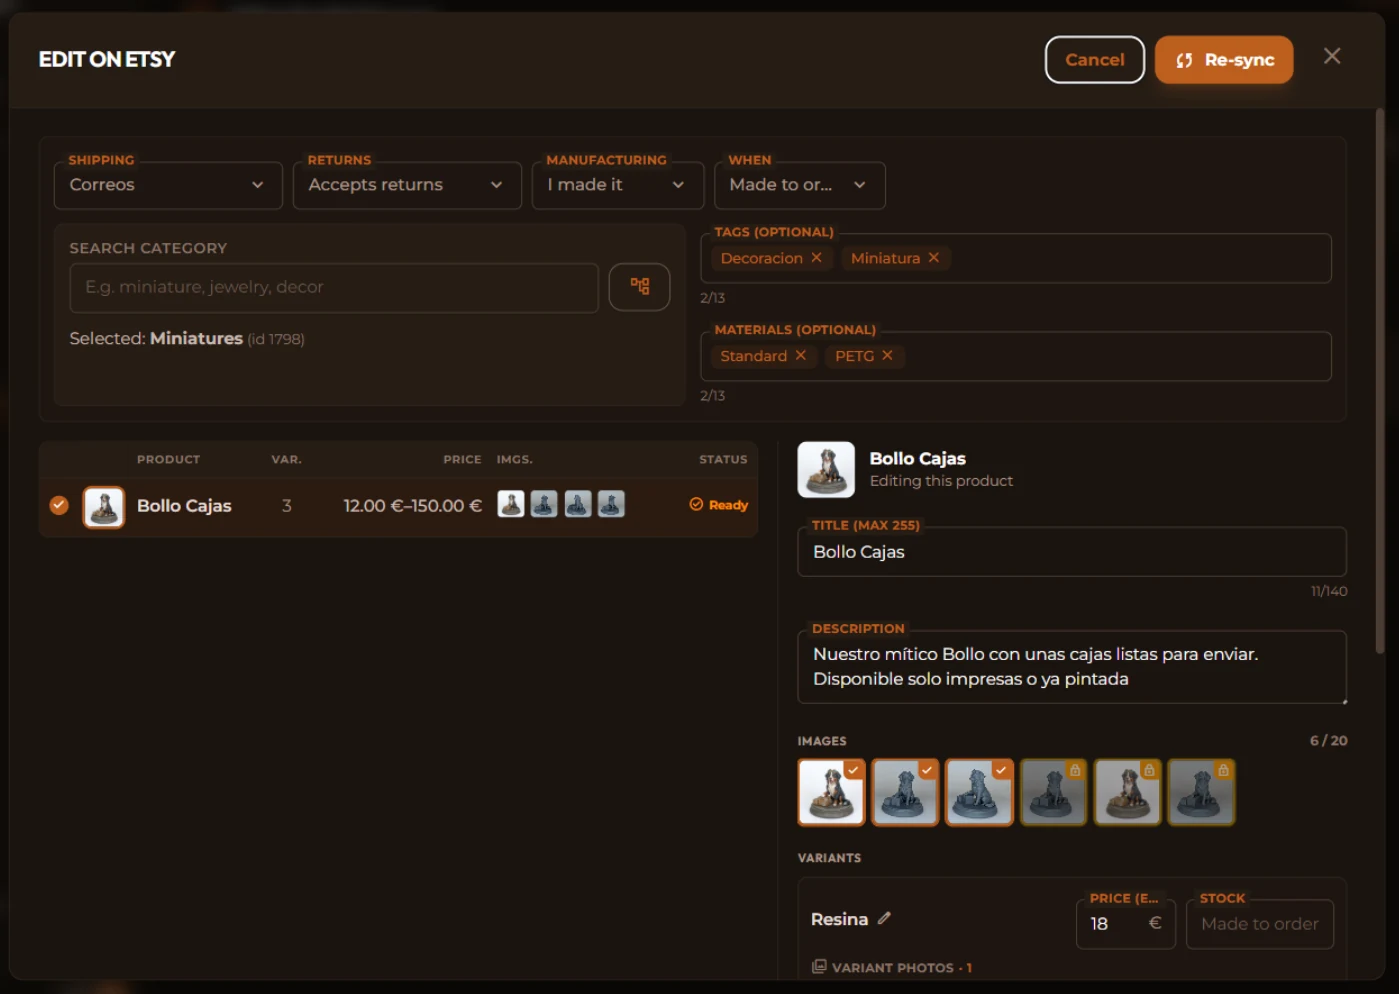
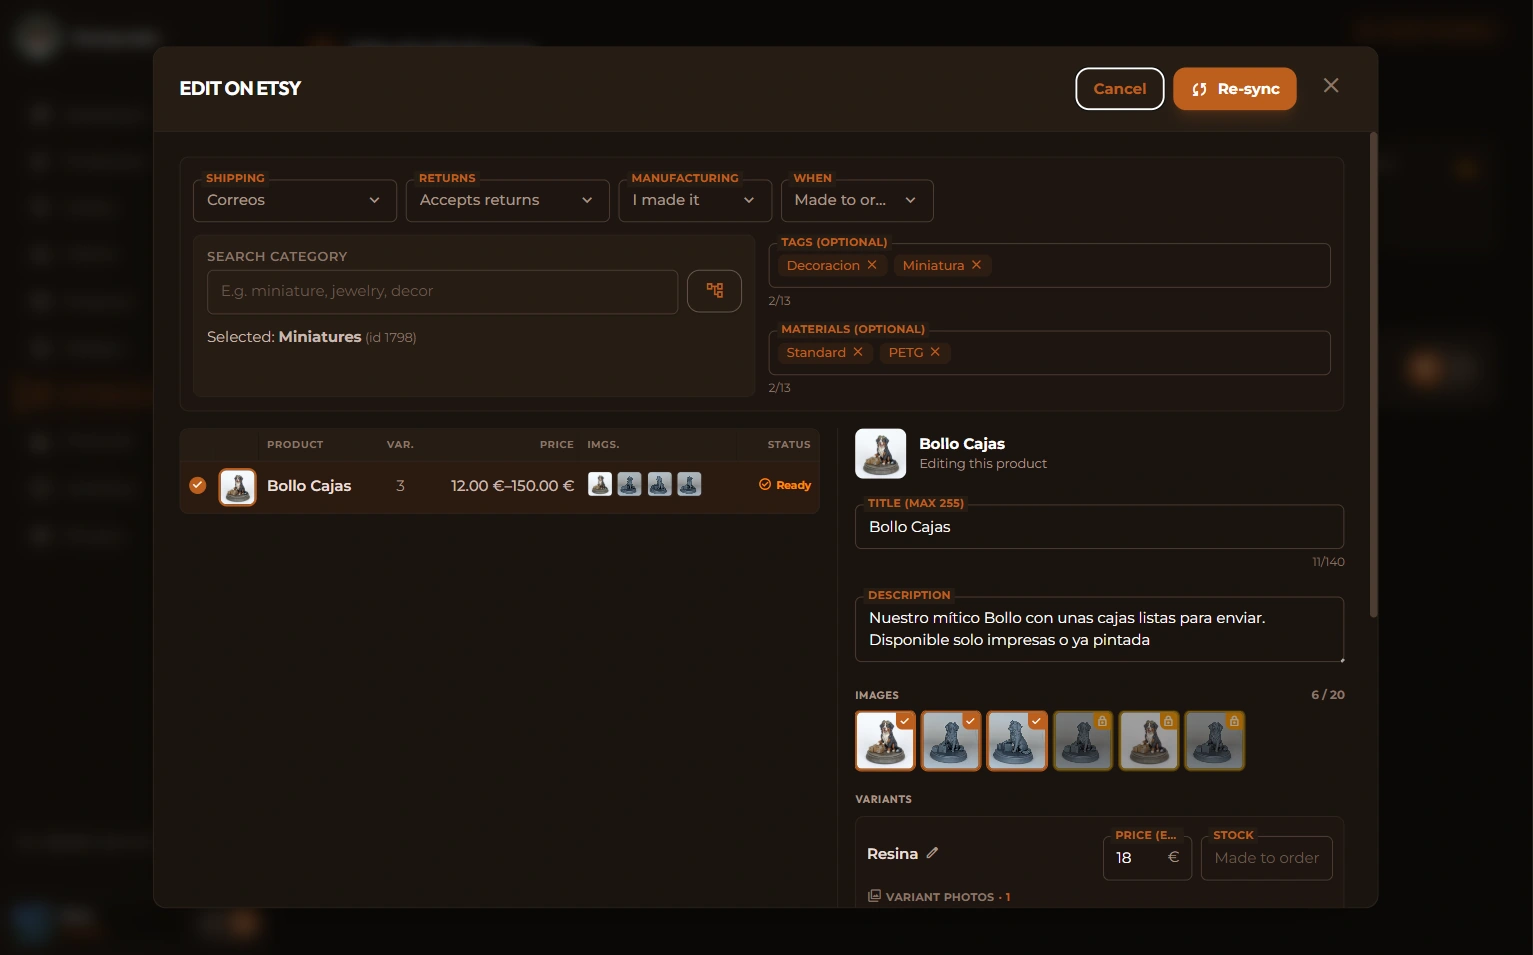
Etsy: imágenes con más calidad y un cierre nuevo
Las dos imágenes se recodifican a calidad 94 en su resolución nativa (antes
iban a 86/88), y la captura del modal pasa al encuadre ancho, con la ventana
completa de la aplicación detrás en vez de solo el diálogo.

Se añade una tercera al cierre, antes de la lista de documentación: Bollo con
la chapa de Etsy en el collar. Texto alternativo traducido en los seis idiomas
y sin adjetivo con género, que la mascota no tiene por qué llevar uno.

diff --git a/posts/2026-09-27-vender-en-etsy/de.md b/posts/2026-09-27-vender-en-etsy/de.md
@@ -45,6 +45,8 @@ Und wenn unterwegs irgendeine Frage auftaucht oder du Hilfe beim Einrichten dein
 
 Wir wünschen dir richtig gute Verkäufe auf Etsy.
 
+![Bollo, das Maskottchen von BolloPrint, mit einer Etsy-Marke am Halsband](/blog/media/2026-09-27-vender-en-etsy/03-bollo-etsy.webp)
+
 ## Verwandte Dokumentation
 
 - [Auf Etsy verkaufen](/help/vender-en-etsy) — die vollständige Referenz zur Integration

diff --git a/posts/2026-09-27-vender-en-etsy/fr.md b/posts/2026-09-27-vender-en-etsy/fr.md
@@ -45,6 +45,8 @@ Et si le moindre doute surgit en route ou si vous avez besoin d'aide pour config
 
 On vous souhaite de très belles ventes sur Etsy.
 
+![Bollo, la mascotte de BolloPrint, avec une médaille Etsy au collier](/blog/media/2026-09-27-vender-en-etsy/03-bollo-etsy.webp)
+
 ## Documentation associée
 
 - [Vendre sur Etsy](/help/vender-en-etsy) — la référence complète de l'intégration

diff --git a/posts/2026-09-27-vender-en-etsy/it.md b/posts/2026-09-27-vender-en-etsy/it.md
@@ -45,6 +45,8 @@ E se durante il percorso ti viene qualsiasi dubbio o ti serve aiuto per configur
 
 Che quelle vendite su Etsy vadano a meraviglia.
 
+![Bollo, la mascotte di BolloPrint, con una medaglietta Etsy al collare](/blog/media/2026-09-27-vender-en-etsy/03-bollo-etsy.webp)
+
 ## Documentazione correlata
 
 - [Vendere su Etsy](/help/vender-en-etsy) — il riferimento completo dell'integrazione

diff --git a/posts/2026-09-27-vender-en-etsy/pt.md b/posts/2026-09-27-vender-en-etsy/pt.md
@@ -45,6 +45,8 @@ E se te surgir qualquer dúvida durante o processo ou precisares de ajuda para c
 
 Que corra tudo muito bem com essas vendas no Etsy.
 
+![O Bollo, a mascote do BolloPrint, com uma chapa da Etsy na coleira](/blog/media/2026-09-27-vender-en-etsy/03-bollo-etsy.webp)
+
 ## Documentação relacionada
 
 - [Vender no Etsy](/help/vender-en-etsy) — a referência completa da integração

diff --git a/posts/2026-09-27-vender-en-etsy/es.md b/posts/2026-09-27-vender-en-etsy/es.md
@@ -45,6 +45,8 @@ Y si te surge cualquier duda durante el proceso o necesitas ayuda para configura
 
 Que vaya muy bien con esas ventas en Etsy.
 
+![Bollo, la mascota de BolloPrint, con una chapa de Etsy en el collar](/blog/media/2026-09-27-vender-en-etsy/03-bollo-etsy.webp)
+
 ## Documentación relacionada
 
 - [Vender en Etsy](/help/vender-en-etsy) — la referencia completa de la integración

diff --git a/posts/2026-09-27-vender-en-etsy/en.md b/posts/2026-09-27-vender-en-etsy/en.md
@@ -45,6 +45,8 @@ And if any question comes up along the way, or you need help setting your store 
 
 Here's hoping those Etsy sales go brilliantly.
 
+![Bollo, the BolloPrint mascot, with an Etsy tag on the collar](/blog/media/2026-09-27-vender-en-etsy/03-bollo-etsy.webp)
+
 ## Related documentation
 
 - [Selling on Etsy](/help/vender-en-etsy) — the full reference for the integration
